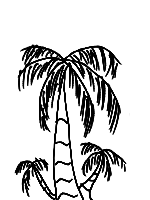
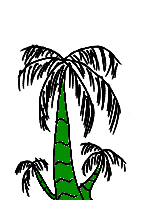
mirror image

diff --git a/start.js b/start.js
@@ -366,6 +366,7 @@ function gauche(n){
 }
 
 function moveRight(n){
+    actor[n].sens = 1;
     actor[n].vx += actor[n].moves.vit;
     if (actor[n].moves.capa == "courseLongue") actor[n].vx = actor[n].moves.vit;
     if (actor[n].moves.capa == "instable"){
@@ -377,6 +378,7 @@ function moveRight(n){
 }
 
 function moveLeft(n){
+    actor[n].sens = -1;
     actor[n].vx -= actor[n].moves.vit;
     if (actor[n].moves.capa == "courseLongue") actor[n].vx = -1 * actor[n].moves.vit;
     if (actor[n].moves.capa == "instable"){
@@ -684,7 +686,13 @@ function draw() {
                 ctx.drawImage(c.img,- c.moves.sx / 2,- c.moves.sy / 2);
                 ctx.restore();
             }
-            else ctx.drawImage(c.img,c.x - c.moves.sx / 2 - X,c.y - c.moves.sy - Y);
+            else {
+                ctx.save();
+                ctx.translate(c.x - X,c.y - c.moves.sy / 2 - Y);
+                ctx.scale(c.sens,1);
+                ctx.drawImage(c.img,- c.moves.sx / 2,- c.moves.sy / 2);
+                ctx.restore();
+            }
         }
     );
     niveau.forEach(
